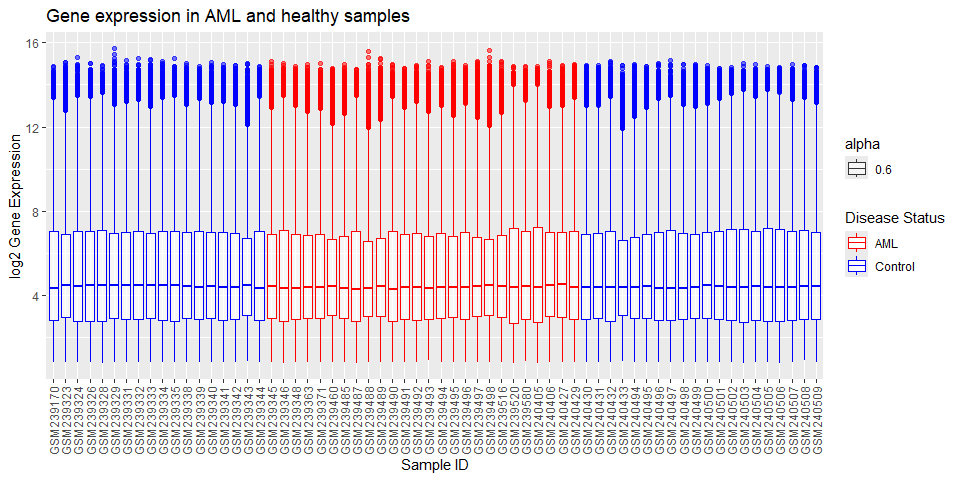
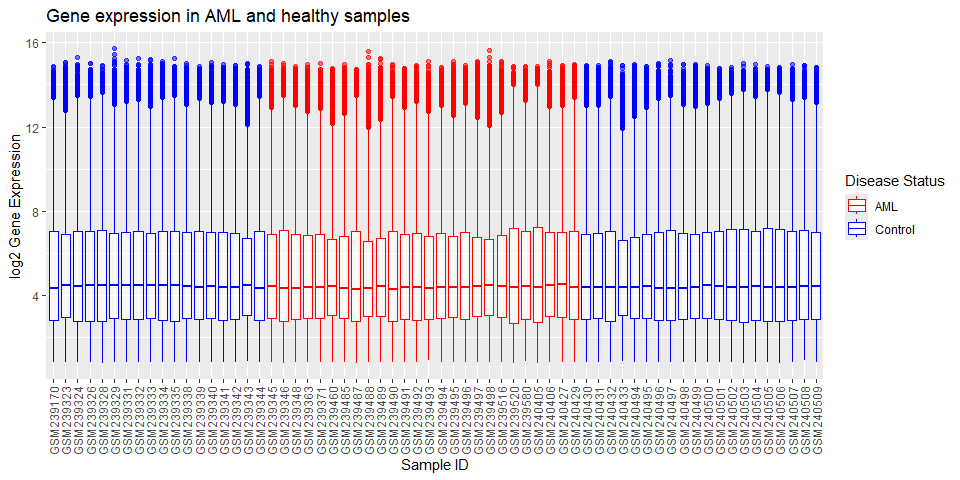
Reknit

Changed region(s): [[0.875, 0.3438, 1.0, 0.5625], [0.875, 0.2812, 0.9375, 0.3125]]

diff --git a/AML_transcriptomics.md b/AML_transcriptomics.md
@@ -96,6 +96,13 @@ sum(is.na(AML_data))
     ## [1] 0
 
 ``` r
+colSums(is.na(AML_metadata))
+```
+
+    ##       SampleID           Desc Disease_status            Age 
+    ##              0              0              0             14
+
+``` r
 # Tidy gene expression data by pivoting it into long format
 AML_data_long = pivot_longer(
   data = AML_data,
@@ -151,6 +158,7 @@ ggplot(data = AML_data_with_status, aes(SampleID, Expression)) +
        y = 'log2 Gene Expression',
        x = 'Sample ID',
        color = 'Disease Status') +
+  guides(alpha = 'none') +
   scale_x_discrete(guide = guide_axis(angle = 90)) # Align x axis labels
 ```
 
@@ -245,8 +253,8 @@ sum(is.na(full_data_summary_stats))
     ## [1] 0
 
 A scatterplot of mean AML vs mean Control expression shows the
-relationship is highly linear — most genes sit on the y = x line, and
-the genes that stray from it are the candidates of interest.
+relationship is highly linear — most genes sit on the y = x line. The
+genes that stray from it are the candidates of interest.
 
 ``` r
 # Create scatter plot
@@ -278,8 +286,7 @@ t.test(full_data_summary_stats$mean_AML,
     ##  5.091984  5.109899
 
 As expected, overall gene expression is not shifted up or down between
-groups — the signal of interest is in individual genes, not the global
-mean.
+groups. The signal is in individual genes, not the global mean.
 
 ## Differential expression: per-gene t-tests
 
@@ -299,12 +306,13 @@ full_data_with_t_test = t_test_table %>%
   group_by(ID_REF) %>%
   full_join(full_data_summary_stats, by = 'ID_REF') %>%
   unique() %>% # Remove duplicate rows
-  ungroup # Remove grouping to avoid problems later
+  ungroup %>% # Remove grouping to avoid problems later
+  mutate(p_adj = p.adjust(p_value, method = 'BH'))
 
 str(full_data_with_t_test)
 ```
 
-    ## tibble [22,283 × 12] (S3: tbl_df/tbl/data.frame)
+    ## tibble [22,283 × 13] (S3: tbl_df/tbl/data.frame)
     ##  $ ID_REF      : Factor w/ 22283 levels "1007_s_at","1053_at",..: 1 2 3 4 5 6 7 8 9 10 ...
     ##  $ t_score     : Named num [1:22283] 1.35 -1.4 -2.14 3.38 1.37 ...
     ##   ..- attr(*, "names")= chr [1:22283] "t" "t" "t" "t" ...
@@ -318,6 +326,7 @@ str(full_data_with_t_test)
     ##  $ min_Control : num [1:22283] 2.84 5.93 3.92 6.77 2.1 ...
     ##  $ max_Control : num [1:22283] 3.45 8.14 12.36 8.02 2.51 ...
     ##  $ Fold_change : num [1:22283] 0.0814 -0.1737 -1.1231 0.2733 0.0258 ...
+    ##  $ p_adj       : num [1:22283] 0.3544 0.3346 0.1586 0.0231 0.3456 ...
 
 ``` r
 sum(is.na(full_data_with_t_test))
@@ -349,8 +358,7 @@ paste('There are', filter_b, 'probesets remaining after filter b')
 
     ## [1] "There are 22171 probesets remaining after filter b"
 
-Applying both criteria together — the more stringent, combined filter
-carried forward — leaves:
+Applying both criteria together leaves:
 
 ``` r
 filter_c = nrow(full_data_with_t_test %>%
@@ -363,7 +371,7 @@ paste('There are', filter_c, 'probesets remaining after filter c')
     ## [1] "There are 15914 probesets remaining after filter c"
 
 The combined expression filter is applied, then DEGs are called as
-probesets with p \< 0.05 and \|log2 fold change\| \> 1.
+probesets with p_adj \< 0.05 and \|log2 fold change\| \> 1.
 
 ``` r
 DEG_data_filter_c = full_data_with_t_test %>%
@@ -373,29 +381,30 @@ DEG_data_filter_c = full_data_with_t_test %>%
 dim(DEG_data_filter_c)
 ```
 
-    ## [1] 15914    12
+    ## [1] 15914    13
 
 ``` r
 DEG_data_filtered = DEG_data_filter_c %>%
-  filter(p_value < 0.05 & abs(Fold_change) > 1)
+  filter(p_adj < 0.05 & abs(Fold_change) > 1)
 
 str(DEG_data_filtered)
 ```
 
-    ## tibble [626 × 12] (S3: tbl_df/tbl/data.frame)
-    ##  $ ID_REF      : Factor w/ 22283 levels "1007_s_at","1053_at",..: 3 130 189 193 194 264 294 344 451 463 ...
-    ##  $ t_score     : Named num [1:626] -2.14 -4.97 5.23 -3.28 -3.25 ...
-    ##   ..- attr(*, "names")= chr [1:626] "t" "t" "t" "t" ...
-    ##  $ p_value     : num [1:626] 3.60e-02 3.00e-05 4.26e-06 2.73e-03 1.88e-03 ...
-    ##  $ mean_AML    : num [1:626] 5.35 4.92 9.94 6.7 8.08 ...
-    ##  $ sd_AML      : num [1:626] 1.543 2.17 0.836 2.416 1.111 ...
-    ##  $ min_AML     : num [1:626] 3.96 2.91 7.67 2.94 6.4 ...
-    ##  $ max_AML     : num [1:626] 9.64 8.71 11.38 10.92 11.33 ...
-    ##  $ mean_Control: num [1:626] 6.48 7.1 8.91 8.31 9.11 ...
-    ##  $ sd_Control  : num [1:626] 2.634 0.633 0.654 0.809 1.437 ...
-    ##  $ min_Control : num [1:626] 3.92 5.4 7.3 6.88 7.79 ...
-    ##  $ max_Control : num [1:626] 12.36 8.28 9.92 9.77 13.32 ...
-    ##  $ Fold_change : num [1:626] -1.12 -2.18 1.02 -1.61 -1.04 ...
+    ## tibble [507 × 13] (S3: tbl_df/tbl/data.frame)
+    ##  $ ID_REF      : Factor w/ 22283 levels "1007_s_at","1053_at",..: 130 189 193 194 264 294 344 463 493 511 ...
+    ##  $ t_score     : Named num [1:507] -4.97 5.23 -3.28 -3.25 8.76 ...
+    ##   ..- attr(*, "names")= chr [1:507] "t" "t" "t" "t" ...
+    ##  $ p_value     : num [1:507] 3.00e-05 4.26e-06 2.73e-03 1.88e-03 1.09e-11 ...
+    ##  $ mean_AML    : num [1:507] 4.92 9.94 6.7 8.08 11.58 ...
+    ##  $ sd_AML      : num [1:507] 2.17 0.836 2.416 1.111 0.486 ...
+    ##  $ min_AML     : num [1:507] 2.91 7.67 2.94 6.4 10.72 ...
+    ##  $ max_AML     : num [1:507] 8.71 11.38 10.92 11.33 12.41 ...
+    ##  $ mean_Control: num [1:507] 7.1 8.91 8.31 9.11 10.54 ...
+    ##  $ sd_Control  : num [1:507] 0.633 0.654 0.809 1.437 0.44 ...
+    ##  $ min_Control : num [1:507] 5.4 7.3 6.88 7.79 9.42 ...
+    ##  $ max_Control : num [1:507] 8.28 9.92 9.77 13.32 11.23 ...
+    ##  $ Fold_change : num [1:507] -2.18 1.02 -1.61 -1.04 1.04 ...
+    ##  $ p_adj       : num [1:507] 1.77e-03 4.60e-04 3.37e-02 2.66e-02 1.36e-07 ...
 
 ``` r
 sum(is.na(DEG_data_filtered))
@@ -409,7 +418,7 @@ paste('There are',
       'differentially expressed genes in the dataset')
 ```
 
-    ## [1] "There are 626 differentially expressed genes in the dataset"
+    ## [1] "There are 507 differentially expressed genes in the dataset"
 
 Splitting the DEGs by the sign of the fold change gives the up- and
 down-regulated counts.
@@ -424,7 +433,7 @@ paste('There are',
       'upregulated DEGs in the dataset')
 ```
 
-    ## [1] "There are 136 upregulated DEGs in the dataset"
+    ## [1] "There are 102 upregulated DEGs in the dataset"
 
 ``` r
 downregulated_DEGs = DEG_data_filtered %>%
@@ -436,7 +445,7 @@ paste('There are',
       'downregulated DEGs in the dataset')
 ```
 
-    ## [1] "There are 490 downregulated DEGs in the dataset"
+    ## [1] "There are 405 downregulated DEGs in the dataset"
 
 The ten most up- and down-regulated DEGs by fold change:
 
@@ -460,9 +469,9 @@ top_10_upregulated_DEGs
 | 206067_s_at | 0.0000014 |    2.337609 |     4.054346 |  6.391956 |
 | 201105_at   | 0.0000000 |    2.236181 |     9.891301 | 12.127482 |
 | 205131_x_at | 0.0008269 |    2.150490 |     4.204067 |  6.354558 |
-| 214575_s_at | 0.0063934 |    2.147387 |     5.959960 |  8.107346 |
 | 205382_s_at | 0.0008141 |    2.146922 |     7.931564 | 10.078486 |
 | 211709_s_at | 0.0003427 |    2.107120 |     6.624619 |  8.731739 |
+| 216268_s_at | 0.0000009 |    2.061418 |     3.929634 |  5.991053 |
 
 </div>
 
@@ -497,7 +506,8 @@ top_10_downregulated_DEGs
 The same DEG definition is applied using `limma`. The expression matrix
 is prepared (probeset IDs as row names), a design matrix is built from
 disease status, and a linear model is fitted with the contrast AML −
-Control.
+Control. As 14 of the 64 patients had no age data available, age was not
+included in the model as a confounder.
 
 ``` r
 AML_data_limma = AML_data
@@ -547,8 +557,8 @@ sum(is.na(limma_results))
 
 The limma results are joined to the summary-statistics table and put
 through the same filters as the t-test approach, for a like-for-like
-comparison: mean \> 3 in both groups, max \< 14 in at least one group, p
-\< 0.05, and \|log2 fold change\| \> 1.
+comparison: mean \> 3 in both groups, max \< 14 in at least one group,
+p_adj \< 0.05, and \|log2 fold change\| \> 1.
 
 ``` r
 # Create ID_REF column in limma results to join on
@@ -590,25 +600,25 @@ sum(is.na(full_data_with_limma))
 limma_results_filtered = full_data_with_limma %>%
   filter((mean_AML > 3 & mean_Control > 3) &
            (max_AML < 14 | max_Control < 14) &
-              P.Value < 0.05 & abs(logFC) > 1)
+              adj.P.Val < 0.05 & abs(logFC) > 1)
 
 str(limma_results_filtered)
 ```
 
-    ## tibble [626 × 13] (S3: tbl_df/tbl/data.frame)
-    ##  $ ID_REF      : chr [1:626] "212224_at" "202478_at" "209586_s_at" "219624_at" ...
-    ##  $ logFC       : num [1:626] -3.7 -3.21 -1.38 1.82 1.04 ...
-    ##  $ P.Value     : num [1:626] 1.20e-14 3.79e-14 4.56e-14 1.98e-13 6.31e-13 ...
-    ##  $ adj.P.Val   : num [1:626] 2.67e-10 3.39e-10 3.39e-10 1.10e-09 2.81e-09 ...
-    ##  $ mean_AML    : num [1:626] 5.01 3.47 6.77 5.54 11.58 ...
-    ##  $ sd_AML      : num [1:626] 1.981 1.766 0.697 1.175 0.486 ...
-    ##  $ min_AML     : num [1:626] 2.67 2.36 5.49 3.5 10.72 ...
-    ##  $ max_AML     : num [1:626] 8.75 8.16 8.24 7.69 12.41 ...
-    ##  $ mean_Control: num [1:626] 8.71 6.67 8.15 3.72 10.54 ...
-    ##  $ sd_Control  : num [1:626] 0.979 0.878 0.456 0.289 0.44 ...
-    ##  $ min_Control : num [1:626] 6.51 3.73 6.7 3.38 9.42 ...
-    ##  $ max_Control : num [1:626] 10.56 8.6 8.9 4.73 11.23 ...
-    ##  $ Fold_change : num [1:626] -3.7 -3.21 -1.38 1.82 1.04 ...
+    ## tibble [512 × 13] (S3: tbl_df/tbl/data.frame)
+    ##  $ ID_REF      : chr [1:512] "212224_at" "202478_at" "209586_s_at" "219624_at" ...
+    ##  $ logFC       : num [1:512] -3.7 -3.21 -1.38 1.82 1.04 ...
+    ##  $ P.Value     : num [1:512] 1.20e-14 3.79e-14 4.56e-14 1.98e-13 6.31e-13 ...
+    ##  $ adj.P.Val   : num [1:512] 2.67e-10 3.39e-10 3.39e-10 1.10e-09 2.81e-09 ...
+    ##  $ mean_AML    : num [1:512] 5.01 3.47 6.77 5.54 11.58 ...
+    ##  $ sd_AML      : num [1:512] 1.981 1.766 0.697 1.175 0.486 ...
+    ##  $ min_AML     : num [1:512] 2.67 2.36 5.49 3.5 10.72 ...
+    ##  $ max_AML     : num [1:512] 8.75 8.16 8.24 7.69 12.41 ...
+    ##  $ mean_Control: num [1:512] 8.71 6.67 8.15 3.72 10.54 ...
+    ##  $ sd_Control  : num [1:512] 0.979 0.878 0.456 0.289 0.44 ...
+    ##  $ min_Control : num [1:512] 6.51 3.73 6.7 3.38 9.42 ...
+    ##  $ max_Control : num [1:512] 10.56 8.6 8.9 4.73 11.23 ...
+    ##  $ Fold_change : num [1:512] -3.7 -3.21 -1.38 1.82 1.04 ...
 
 ``` r
 sum(is.na(limma_results_filtered))
@@ -620,7 +630,7 @@ sum(is.na(limma_results_filtered))
 paste('There are', nrow(limma_results_filtered), 'DEGs in the dataset')
 ```
 
-    ## [1] "There are 626 DEGs in the dataset"
+    ## [1] "There are 512 DEGs in the dataset"
 
 ## Comparing the two methods
 
@@ -637,7 +647,7 @@ overlapped_gene_count = nrow(DEGs_limma_and_t_test)
 paste('There are', overlapped_gene_count, 'overlapped genes')
 ```
 
-    ## [1] "There are 620 overlapped genes"
+    ## [1] "There are 490 overlapped genes"
 
 The overlap is visualised as a Venn diagram.
 
@@ -653,12 +663,29 @@ library(VennDiagram)
 # Create Venn diagram
 grid.newpage()
 grid.draw(venn.diagram(x = list(t_test = DEG_data_filtered$ID_REF,
-                                limmma = limma_results_filtered$ID_REF),
+                                limma = limma_results_filtered$ID_REF),
                         category.names = c('T-test', 'Limma'),
                         fill = c(alpha('red',0.3),
                                   alpha('blue',0.3)),
-                       filename = NULL))
+                       filename = NULL,
+                       disable.logging = TRUE))
 ```
+
+    ## INFO [2026-07-08 09:57:09] $x
+    ## INFO [2026-07-08 09:57:09] list(t_test = DEG_data_filtered$ID_REF, limma = limma_results_filtered$ID_REF)
+    ## INFO [2026-07-08 09:57:09] 
+    ## INFO [2026-07-08 09:57:09] $category.names
+    ## INFO [2026-07-08 09:57:09] c("T-test", "Limma")
+    ## INFO [2026-07-08 09:57:09] 
+    ## INFO [2026-07-08 09:57:09] $fill
+    ## INFO [2026-07-08 09:57:09] c(alpha("red", 0.3), alpha("blue", 0.3))
+    ## INFO [2026-07-08 09:57:09] 
+    ## INFO [2026-07-08 09:57:09] $filename
+    ## INFO [2026-07-08 09:57:09] NULL
+    ## INFO [2026-07-08 09:57:09] 
+    ## INFO [2026-07-08 09:57:09] $disable.logging
+    ## INFO [2026-07-08 09:57:09] [1] TRUE
+    ## INFO [2026-07-08 09:57:09]
 
 ![](AML_transcriptomics_files/figure-gfm/unnamed-chunk-32-1.png)<!-- -->
 
@@ -673,16 +700,28 @@ t_test_exclusive_DEGs = DEG_data_filtered %>%
 print(t_test_exclusive_DEGs)
 ```
 
-    ## # A tibble: 6 × 12
-    ##   ID_REF t_score p_value mean_AML sd_AML min_AML max_AML mean_Control sd_Control
-    ##   <fct>    <dbl>   <dbl>    <dbl>  <dbl>   <dbl>   <dbl>        <dbl>      <dbl>
-    ## 1 117_at   -2.14  0.0360     5.35   1.54    3.96    9.64         6.48       2.63
-    ## 2 20412…    2.16  0.0353    10.9    1.30    8.83   13.2          9.63       3.31
-    ## 3 20503…   -2.03  0.0469     5.91   2.10    3.98   10.6          7.27       3.27
-    ## 4 20540…   -2.13  0.0372     5.34   1.53    3.90    9.37         6.49       2.76
-    ## 5 20549…   -2.01  0.0494     4.65   1.96    2.48    9.22         6.04       3.53
-    ## 6 20769…   -2.04  0.0461     6.58   1.66    4.76   10.1          7.64       2.49
-    ## # ℹ 3 more variables: min_Control <dbl>, max_Control <dbl>, Fold_change <dbl>
+    ## # A tibble: 17 × 13
+    ##    ID_REF      t_score p_value mean_AML sd_AML min_AML max_AML mean_Control
+    ##    <fct>         <dbl>   <dbl>    <dbl>  <dbl>   <dbl>   <dbl>        <dbl>
+    ##  1 202983_at     -2.94 0.00458     6.26  1.11     4.15    8.40         7.29
+    ##  2 203907_s_at   -3.00 0.00389     5.79  1.07     4.14    8.62         6.85
+    ##  3 204891_s_at   -2.95 0.00448     4.61  1.98     2.99    9.58         6.54
+    ##  4 205837_s_at   -3.01 0.00442     3.81  0.375    3.19    4.61         4.86
+    ##  5 205931_s_at   -3.09 0.00326     3.70  1.04     2.68    6.86         5.19
+    ##  6 206222_at     -3.03 0.00428     4.81  0.439    4.32    6.21         6.16
+    ##  7 206707_x_at   -2.95 0.00444     7.56  1.20     5.47    9.63         8.70
+    ##  8 207008_at     -3.02 0.00439     4.29  0.717    3.48    6.63         6.17
+    ##  9 209183_s_at   -2.94 0.00482     4.54  0.873    3.55    6.90         5.59
+    ## 10 209791_at     -3.08 0.00344     4.02  0.653    3.28    6.11         5.14
+    ## 11 211163_s_at   -3.03 0.00427     3.41  0.489    3.01    5.24         5.03
+    ## 12 211806_s_at   -3.19 0.00272     5.39  0.460    4.38    6.26         6.51
+    ## 13 216252_x_at   -2.97 0.00457     4.11  0.779    3.36    6.58         5.18
+    ## 14 218614_at     -3.02 0.00379     6.62  0.973    4.23    8.05         7.76
+    ## 15 219243_at     -2.96 0.00433     3.69  1.47     2.76    8.70         5.15
+    ## 16 221563_at      3.02 0.00372     7.81  1.25     3.96    9.55         6.58
+    ## 17 41469_at      -3.16 0.00305     3.22  0.288    2.87    4.25         4.29
+    ## # ℹ 5 more variables: sd_Control <dbl>, min_Control <dbl>, max_Control <dbl>,
+    ## #   Fold_change <dbl>, p_adj <dbl>
 
 ``` r
 limma_exclusive_DEGs = limma_results_filtered %>%
@@ -691,15 +730,20 @@ limma_exclusive_DEGs = limma_results_filtered %>%
 print(limma_exclusive_DEGs)
 ```
 
-    ## # A tibble: 6 × 13
-    ##   ID_REF    logFC P.Value adj.P.Val mean_AML sd_AML min_AML max_AML mean_Control
-    ##   <chr>     <dbl>   <dbl>     <dbl>    <dbl>  <dbl>   <dbl>   <dbl>        <dbl>
-    ## 1 216474_x…  1.21  0.0297     0.126     6.00   2.76    3.36    12.9         4.79
-    ## 2 218345_at  1.04  0.0318     0.131     6.75   2.33    4.47    11.9         5.71
-    ## 3 210254_at -1.25  0.0345     0.137     5.72   2.76    3.60    12.4         6.97
-    ## 4 202437_s… -1.02  0.0449     0.159     3.78   2.08    2.42    10.1         4.80
-    ## 5 209160_at -1.32  0.0454     0.160     7.07   2.69    2.20    11.6         8.39
-    ## 6 213844_at  1.21  0.0493     0.168     7.76   2.49    3.43    10.8         6.55
+    ## # A tibble: 22 × 13
+    ##    ID_REF   logFC P.Value adj.P.Val mean_AML sd_AML min_AML max_AML mean_Control
+    ##    <chr>    <dbl>   <dbl>     <dbl>    <dbl>  <dbl>   <dbl>   <dbl>        <dbl>
+    ##  1 201169_…  1.33 0.00131    0.0175     5.18   2.18    2.20    8.90         3.86
+    ##  2 204160_… -1.04 0.00213    0.0245     5.07   1.72    2.08    8.27         6.10
+    ##  3 210665_…  1.34 0.00214    0.0246     4.85   2.32    1.74    8.90         3.51
+    ##  4 212671_… -1.69 0.00220    0.0250     7.26   2.94    2.40   12.8          8.95
+    ##  5 218232_…  1.03 0.00248    0.0272     4.09   1.93    2.85    9.31         3.06
+    ##  6 217838_… -1.06 0.00324    0.0324     7.03   1.64    3.13    9.44         8.09
+    ##  7 200923_…  1.17 0.00329    0.0327     6.32   2.29    3.01    9.85         5.15
+    ##  8 214575_…  2.15 0.00350    0.0339     8.11   3.23    3.31   12.6          5.96
+    ##  9 208727_…  1.09 0.00356    0.0343     9.74   1.60    6.55   13.1          8.65
+    ## 10 204646_… -1.24 0.00356    0.0343     6.76   2.16    2.92   10.7          8.00
+    ## # ℹ 12 more rows
     ## # ℹ 4 more variables: sd_Control <dbl>, min_Control <dbl>, max_Control <dbl>,
     ## #   Fold_change <dbl>
 